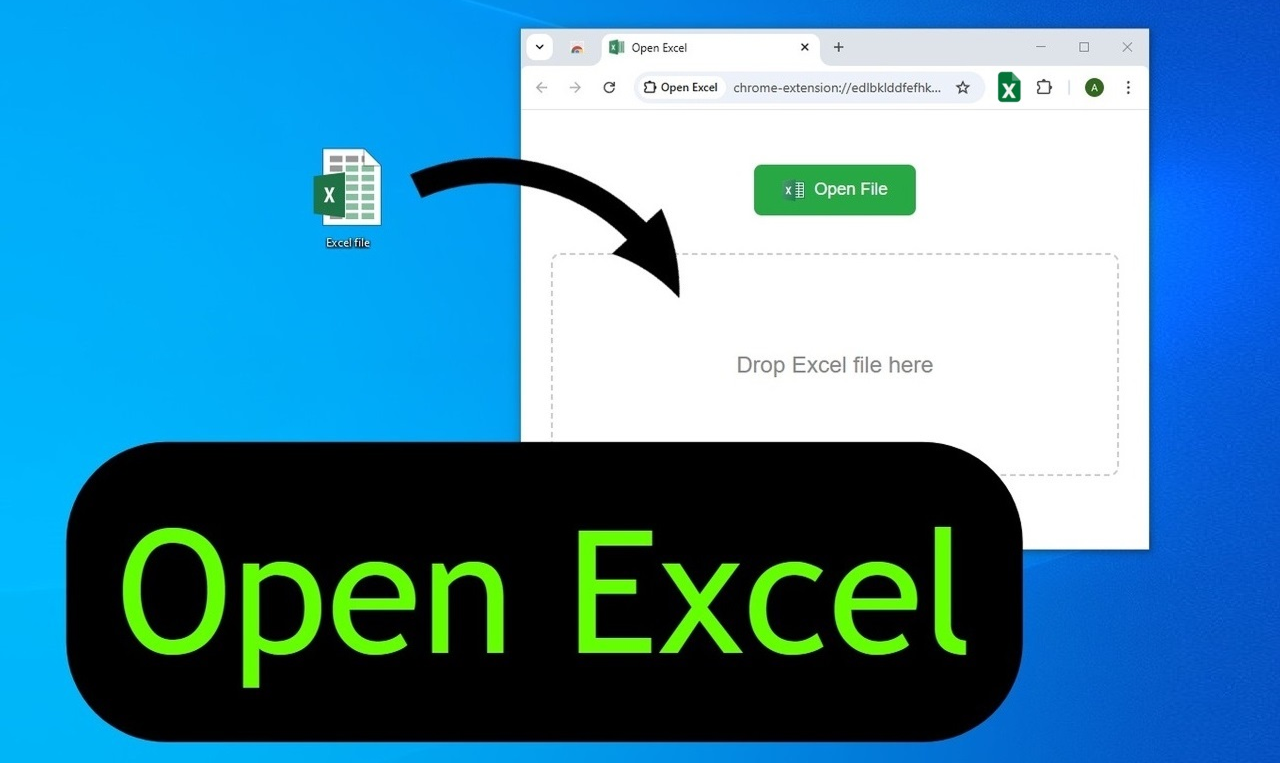
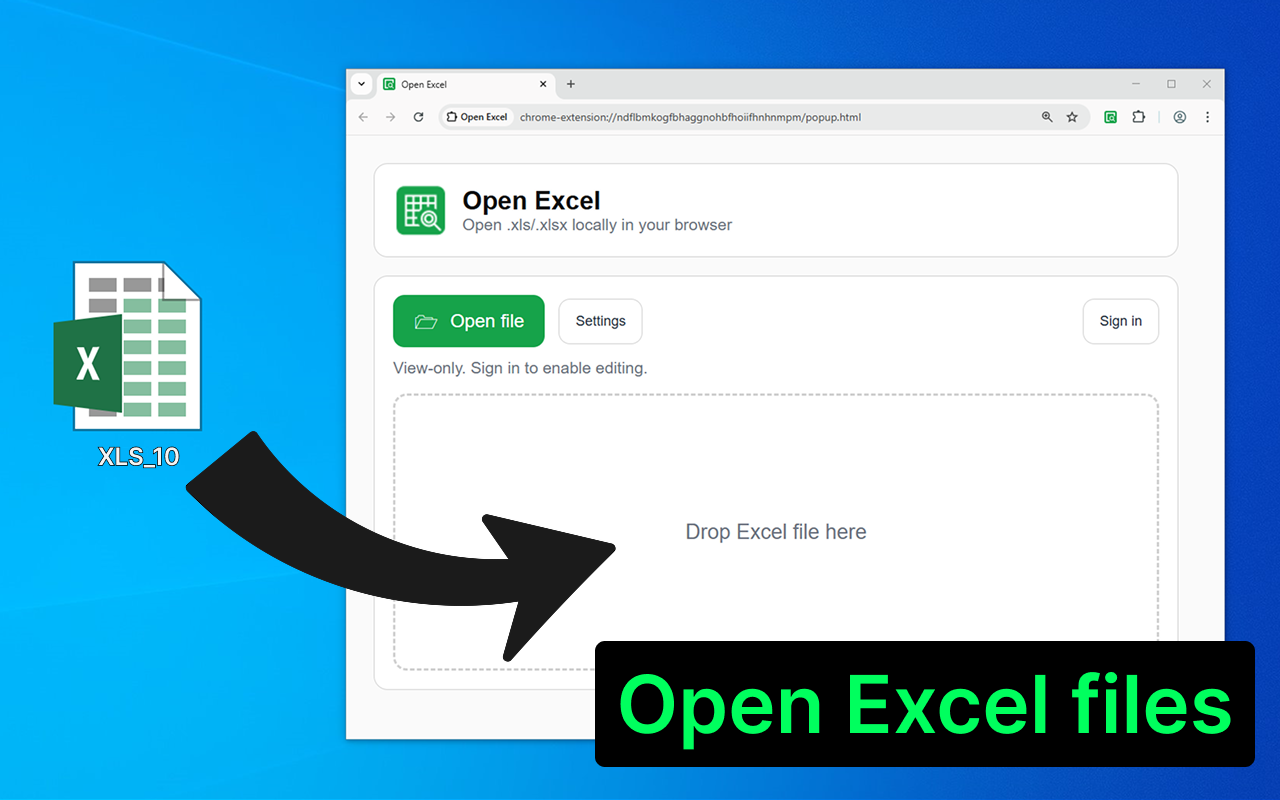
Update index, tos, hero for version 2.0.0

diff --git a/docs/tos.html b/docs/tos.html
@@ -13,50 +13,137 @@
   </header>
 
   <main class="container">
-    <p><strong>Effective Date: August&nbsp;2025</strong></p>
+    <p><strong>Effective Date: February&nbsp;2026</strong></p>
 
     <h2>1&nbsp;· Introduction</h2>
-    <p>These Terms of Service (“Terms”) govern your use of the Open&nbsp;Excel Chrome extension (“Service”), provided by OÜ&nbsp;ValmisLab (“we”, “us”, “our”).</p>
+    <p>
+      These Terms of Service (“Terms”) govern your use of the Open&nbsp;Excel Chrome extension (the “Service”),
+      provided by OÜ&nbsp;ValmisLab (“we”, “us”, “our”).
+    </p>
 
     <h2>2&nbsp;· Acceptance</h2>
-    <p>By installing or using the Service you agree to be bound by these Terms. If you do not agree, do not use the Service.</p>
+    <p>
+      By installing or using the Service, you agree to be bound by these Terms.
+      If you do not agree, do not use the Service.
+    </p>
 
     <h2>3&nbsp;· Description of the Service</h2>
-    <p>Open&nbsp;Excel allows you to view .xls/.xlsx files locally in Chrome and, on request, upload the selected file to your own Google&nbsp;Drive for editing in Google&nbsp;Sheets.</p>
+    <p>
+      Open&nbsp;Excel allows you to open and view Excel files (<code>.xls</code>, <code>.xlsx</code>) in Chrome.
+      The Service includes features such as multi-sheet navigation, printing, and downloading/exporting.
+      After sign-in, the Service can enable local editing and local saving (on your device).
+      Optionally, you may export a file to Google Sheets, which uploads the file to your own Google Drive and opens it in Google Sheets.
+    </p>
 
-    <h2>4&nbsp;· Google OAuth &amp; API Scopes</h2>
+    <h2>4&nbsp;· Local Processing, Storage, and User Content</h2>
+    <p>
+      By default, Excel files are processed locally in your browser. You are responsible for the files you open, edit, and export,
+      and for ensuring you have the rights to use them.
+    </p>
+    <p>
+      To provide “Recent files” and local saving, the Service may store file data locally in your browser (e.g., IndexedDB) and store settings/session
+      information in <code>chrome.storage.local</code>. You can remove items from Recent or clear Recent, which removes associated cached data.
+    </p>
+    <p>
+      The Service may attempt compatibility repairs for certain non-standard Excel files (e.g., metadata/styles adjustments)
+      to improve import reliability. Formatting or features (such as images/external links) may not be preserved in all cases.
+    </p>
+
+    <h2>5&nbsp;· Account, Authentication, and Email OTP</h2>
+    <p>
+      Some features (such as local editing and local saving) may require you to sign in.
+      Sign-in options may include Google sign-in and Email OTP (one-time code).
+    </p>
+    <p>
+      If you choose Email OTP, you authorize us to send an authentication code to the email address you provide.
+      Marketing emails are optional and only sent if you explicitly opt in.
+    </p>
+
+    <h2>6&nbsp;· Google OAuth, Google APIs, and Scopes</h2>
+    <p>
+      If you choose Google sign-in or use Google Sheets export, the Service may request Google OAuth authorization.
+      The Service requests only the permissions/scopes necessary for the specific action you choose.
+    </p>
     <ul>
-      <li><code>identity</code> — requested only when you click “Edit&nbsp;in&nbsp;Google&nbsp;Sheets” to authenticate.</li>
-      <li><code>drive.file</code> — permits uploading <em>only the chosen file</em> to your Drive.</li>
+      <li><code>userinfo.email</code> — used for Google sign-in to retrieve your email address.</li>
+      <li>
+        <code>drive.file</code> — requested only when you click “Edit&nbsp;in&nbsp;Google&nbsp;Sheets” to upload the chosen file
+        to your Google Drive and convert/open it as a Google Sheets file.
+      </li>
     </ul>
-    <p><strong>Google API Disclosure.</strong> Our use and transfer of information received from Google APIs will comply with the <a href="https://developers.google.com/terms/api-services-user-data-policy" target="_blank" rel="noopener">Google API Services User Data Policy</a>, including the Limited Use requirements.</p>
+    <p>
+      <strong>Google API Disclosure.</strong>
+      Our use and transfer of information received from Google APIs will comply with the
+      <a href="https://developers.google.com/terms/api-services-user-data-policy" target="_blank" rel="noopener">
+        Google API Services User Data Policy
+      </a>, including the Limited Use requirements.
+    </p>
 
-    <h2>5&nbsp;· User Rights</h2>
-    <p>We grant you a non-exclusive, revocable licence to use the Service for personal or internal business purposes.</p>
+    <h2>7&nbsp;· Third-Party Services</h2>
+    <p>
+      The Service may interact with third-party services to provide functionality you request, such as Google OAuth/Google Drive/Google Sheets,
+      and an authentication backend endpoint (<code>api.openexcel.org</code>) for session management and Email OTP verification.
+      Your use of third-party services may be subject to their respective terms and policies.
+    </p>
 
-    <h2>6&nbsp;· Prohibited Uses</h2>
-    <p>You may not reverse-engineer, redistribute, or use the Service to violate any law or third-party rights.</p>
+    <h2>8&nbsp;· User Rights</h2>
+    <p>
+      We grant you a non-exclusive, revocable, non-transferable license to use the Service for personal or internal business purposes,
+      subject to these Terms.
+    </p>
 
-    <h2>7&nbsp;· Intellectual Property</h2>
-    <p>All code, trademarks, and logos remain the property of OÜ&nbsp;ValmisLab. No rights are transferred to you.</p>
+    <h2>9&nbsp;· Prohibited Uses</h2>
+    <p>
+      You may not reverse-engineer, redistribute, or use the Service to violate any law, infringe third-party rights,
+      or attempt to bypass security or access controls. You may not use the Service to send abuse traffic (e.g., OTP spam) or interfere with the Service.
+    </p>
 
-    <h2>8&nbsp;· Disclaimer of Warranties</h2>
-    <p>The Service is provided “as is” without warranties of any kind.</p>
+    <h2>10&nbsp;· Intellectual Property</h2>
+    <p>
+      All code, trademarks, and logos remain the property of OÜ&nbsp;ValmisLab (or its licensors).
+      No rights are transferred to you except as expressly stated in these Terms.
+    </p>
 
-    <h2>9&nbsp;· Limitation of Liability</h2>
-    <p>To the fullest extent permitted by law, OÜ&nbsp;ValmisLab shall not be liable for any indirect, incidental, or consequential damages arising from the use of the Service.</p>
+    <h2>11&nbsp;· Disclaimer of Warranties</h2>
+    <p>
+      The Service is provided “as is” and “as available” without warranties of any kind, whether express or implied.
+      We do not warrant that the Service will be uninterrupted or error-free, or that file imports/exports will preserve all formatting in all cases.
+    </p>
 
-    <h2>10&nbsp;· Termination</h2>
-    <p>We may suspend or terminate your access if you breach these Terms.</p>
+    <h2>12&nbsp;· Limitation of Liability</h2>
+    <p>
+      To the fullest extent permitted by law, OÜ&nbsp;ValmisLab shall not be liable for any indirect, incidental, special,
+      consequential, or exemplary damages arising from or related to your use of the Service, including loss of data, profits, or business interruption.
+    </p>
 
-    <h2>11&nbsp;· Governing Law</h2>
-    <p>These Terms are governed by the laws of Estonia. Disputes will be resolved in Harju County Court, Tallinn.</p>
+    <h2>13&nbsp;· Termination</h2>
+    <p>
+      We may suspend or terminate your access to the Service if you breach these Terms or misuse the Service.
+      You may stop using the Service at any time by uninstalling the extension.
+    </p>
 
-    <h2>12&nbsp;· Changes</h2>
-    <p>We may update these Terms. Continued use after changes constitutes acceptance.</p>
+    <h2>14&nbsp;· Privacy</h2>
+    <p>
+      Your use of the Service is also subject to our Privacy Policy. Please review it at
+      <a href="privacy.html">privacy.html</a>.
+    </p>
 
-    <h2>13&nbsp;· Contact</h2>
-    <p>Email: <a href="mailto:valmislab.studio@gmail.com">valmislab.studio@gmail.com</a> · Address: Tornimäe&nbsp;7, 10145&nbsp;Tallinn, Estonia.</p>
+    <h2>15&nbsp;· Governing Law</h2>
+    <p>
+      These Terms are governed by the laws of Estonia. Disputes will be resolved in Harju County Court, Tallinn.
+    </p>
+
+    <h2>16&nbsp;· Changes</h2>
+    <p>
+      We may update these Terms from time to time. Continued use of the Service after changes constitutes acceptance of the updated Terms.
+      Updates will be posted with a revised effective date.
+    </p>
+
+    <h2>17&nbsp;· Contact</h2>
+    <p>
+      Email: <a href="mailto:valmislab.studio@gmail.com">valmislab.studio@gmail.com</a>
+      · Address: Tornimäe&nbsp;7, 10145&nbsp;Tallinn, Estonia.
+    </p>
   </main>
 
   <footer>

diff --git a/docs/index.html b/docs/index.html
@@ -44,15 +44,6 @@
     </a>
   </section>
 
-  <section class="video">
-    <h2>Watch how it works</h2>
-    <div class="video-wrap">
-      <iframe src="https://www.youtube.com/embed/6Y2LfWX2_eY"
-              title="Open Excel demo"
-              allowfullscreen loading="lazy"></iframe>
-    </div>
-  </section>
-
   <section id="features" class="features">
     <h2>Key features</h2>
     <div class="grid">
@@ -61,12 +52,12 @@
         <p>Open .xls and .xlsx files directly in Chrome: no Excel app required.</p>
       </div>
       <div class="card rotate">
-        <h3>Edit in Google Sheets</h3>
-        <p>Upload the current workbook to your Drive and continue editing online.</p>
+        <h3>Edit in Chrome</h3>
+        <p>Edit & Save Excel inside the extension locally.</p>
       </div>
       <div class="card rotate">
-        <h3>Multi-sheet navigation</h3>
-        <p>Switch between tabs in one click and keep working fluidly.</p>
+        <h3>Key spreadsheet workflows</h3>
+        <p>Formulas, fonts, basic formatting, images, sorting and filtering.</p>
       </div>
       <div class="card rotate">
         <h3>Save as PDF</h3>
@@ -82,7 +73,7 @@
       <div class="card step rotate"><strong>2.</strong> Click the “Open Excel” icon.</div>
       <div class="card step rotate"><strong>3.</strong> Choose or drag a .xls/.xlsx file.</div>
       <div class="card step rotate"><strong>4.</strong> Browse sheets, zoom, or export to PDF.</div>
-      <div class="card step rotate"><strong>5.</strong> Hit “Edit in Google Sheets” to upload and keep editing.</div>
+      <div class="card step rotate"><strong>5.</strong> Enable editing and use key workflows</div>
     </div>
   </section>
 
